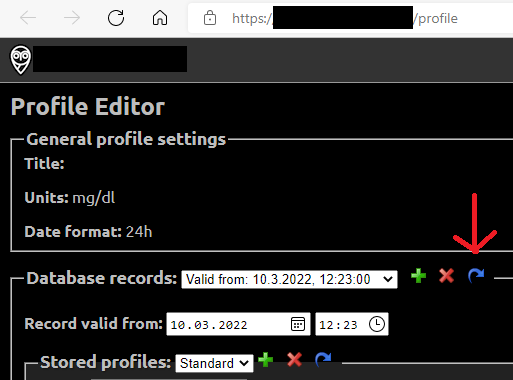
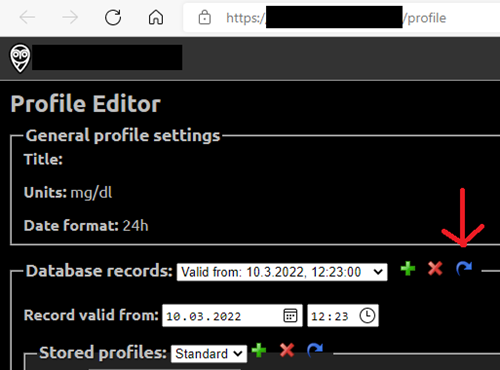
Fixing menu and rendering

diff --git a/docs/EN/.vitepress/theme/custom.css b/docs/EN/.vitepress/theme/custom.css
@@ -1,0 +1,17 @@
+.VPNavBarTitle .logo {
+  height: 24px !important;
+  width: auto !important;
+  max-height: 24px !important;
+}
+
+.vp-doc img {
+  border: 1px solid #0AB3DE;
+}
+
+.custom-block.info {
+  background-color: #dff3fc;
+}
+
+.dark .custom-block.info {
+  background-color: #0d3a4f;
+}

diff --git a/docs/EN/SettingUpAaps/BrowserBuild.md b/docs/EN/SettingUpAaps/BrowserBuild.md
@@ -110,10 +110,7 @@ https://github.com/nightscout/aaps-ci-preparation/releases/latest
 2.Backup copy hosted on this site:
  - If the external link is also unavailable, you can use this backup file to download.
 <!--crowdin:disable-->
-
-.. raw:: html
-
-    &nbsp;&nbsp;&nbsp;&nbsp;&nbsp;&nbsp;<a href="../_static/CI/aaps-ci-preparation.html" download>  aaps-ci-preparation.html</a>
+&nbsp;&nbsp;&nbsp;&nbsp;&nbsp;&nbsp;<a href="../_static/CI/aaps-ci-preparation.html" download>aaps-ci-preparation.html</a>
 <!--crowdin:enable-->
 :::
 

diff --git a/docs/EN/SettingUpAaps/YourAapsProfile.md b/docs/EN/SettingUpAaps/YourAapsProfile.md
@@ -343,7 +343,7 @@ This can be helpful when about to make major changes to a more extensive **Profi
 
 To do this, however, it is important to clone the whole **database record** consisting of several profiles in the Nightscout editor (blue arrow on the screenshot below). The new database records then carries the current date. After saving, the changed/new **Profile** can be activated in **AAPS** with a regular [Profile switch](../DailyLifeWithAaps/ProfileSwitch-ProfilePercentage.md).
 
-![Clone database records](../images/Nightscout_Profile_Editor.PNG)
+![Clone database records](../images/Nightscout_Profile_Editor.png)
 
 <a id="your-aaps-profile-compare-profiles"></a>
 ### Compare two Profiles